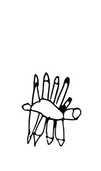
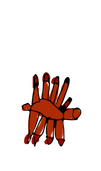
Features: Add different sections to index and add DOM listener to remove user key input functionality

Changed region(s): [[0.2079, 0.4094, 0.802, 0.848]]

diff --git a/js/app.js b/js/app.js
@@ -178,7 +178,7 @@ allEnemies[4] = new Enemy(ENEMY_ROW_4, 60);
  */
 
 var Player = function() {
-    this.sprite = 'images/ninja-one.png';
+    this.sprite = 'images/ninja-two.png';
     this.width = SPRITE_WIDTH;
     this.height = SPRITE_HEIGHT;
     this.x = PLAYER_START_X;
@@ -275,7 +275,14 @@ var Player = function() {
 var player = new Player(); // player is a global variable
 
 
+/* Prevent browser scrolling upon key input to stop canvas conflict */
 
+window.addEventListener("keydown", function(e) {
+    // space and arrow keys
+    if([32, 37, 38, 39, 40].indexOf(e.keyCode) > -1) {
+        e.preventDefault();
+    }
+}, false);
 
 /* Here we are listening for our user to input the moves it wants the
  * player to make on the canvas.

diff --git a/index.html b/index.html
@@ -7,9 +7,20 @@
     <link href='https://fonts.googleapis.com/css?family=Amatic+SC' rel='stylesheet' type='text/css'>
 </head>
 <body>
-	<div id="main">
-		<h1>Escape from Planet Ninja</h1>
-	</div>
+    <section>
+        <h1>A Hand Drawn Game</h1>
+        <h4>Artwork by Charlie</h4>
+    </section>
+    <section>
+        <h2>Introduction</h2>
+        <p>You have chosen a ninja..</p>
+    </section>
+    <section>
+        <h1>Escape from Planet Ninja</h1>
+        <h2>Instructions</h2>
+        <p>You have chosen a ninja..</p>
+        <h1>Stage 1 - The Lava Pit</h1>
+    </section>
     <script src="js/resources.js"></script>
     <script src="js/app.js"></script>
     <script src="js/engine.js"></script>

diff --git a/css/style.css b/css/style.css
@@ -10,11 +10,12 @@ h1 {
 }
 
 canvas {
-	margin-top: -22px;
-	border: 5px solid #000;
+	margin-top: 0px;
+	border: 10px solid transparent;
+    padding: 0px;
+    -webkit-border-image: url(../images/border.png) 30% round; /* Safari 3.1-5 */
+    -o-border-image: url(../images/border.png) 30% round; /* Opera 11-12.1 */
+    border-image: url(../images/border.png) 30% round;
+    background: url("../images/paperback.jpg");
 }
 
-.main {
-	width: 1200px;
-
-}

diff --git a/js/engine.js b/js/engine.js
@@ -172,7 +172,7 @@ var Engine = (function(global) {
      */
     Resources.load([
         'images/deep-water.png',
-        'images/ninja-one.png',
+        'images/ninja-two.png',
         'images/spider.png',
         'images/robot.png',
         'images/diamond-sword.png',
